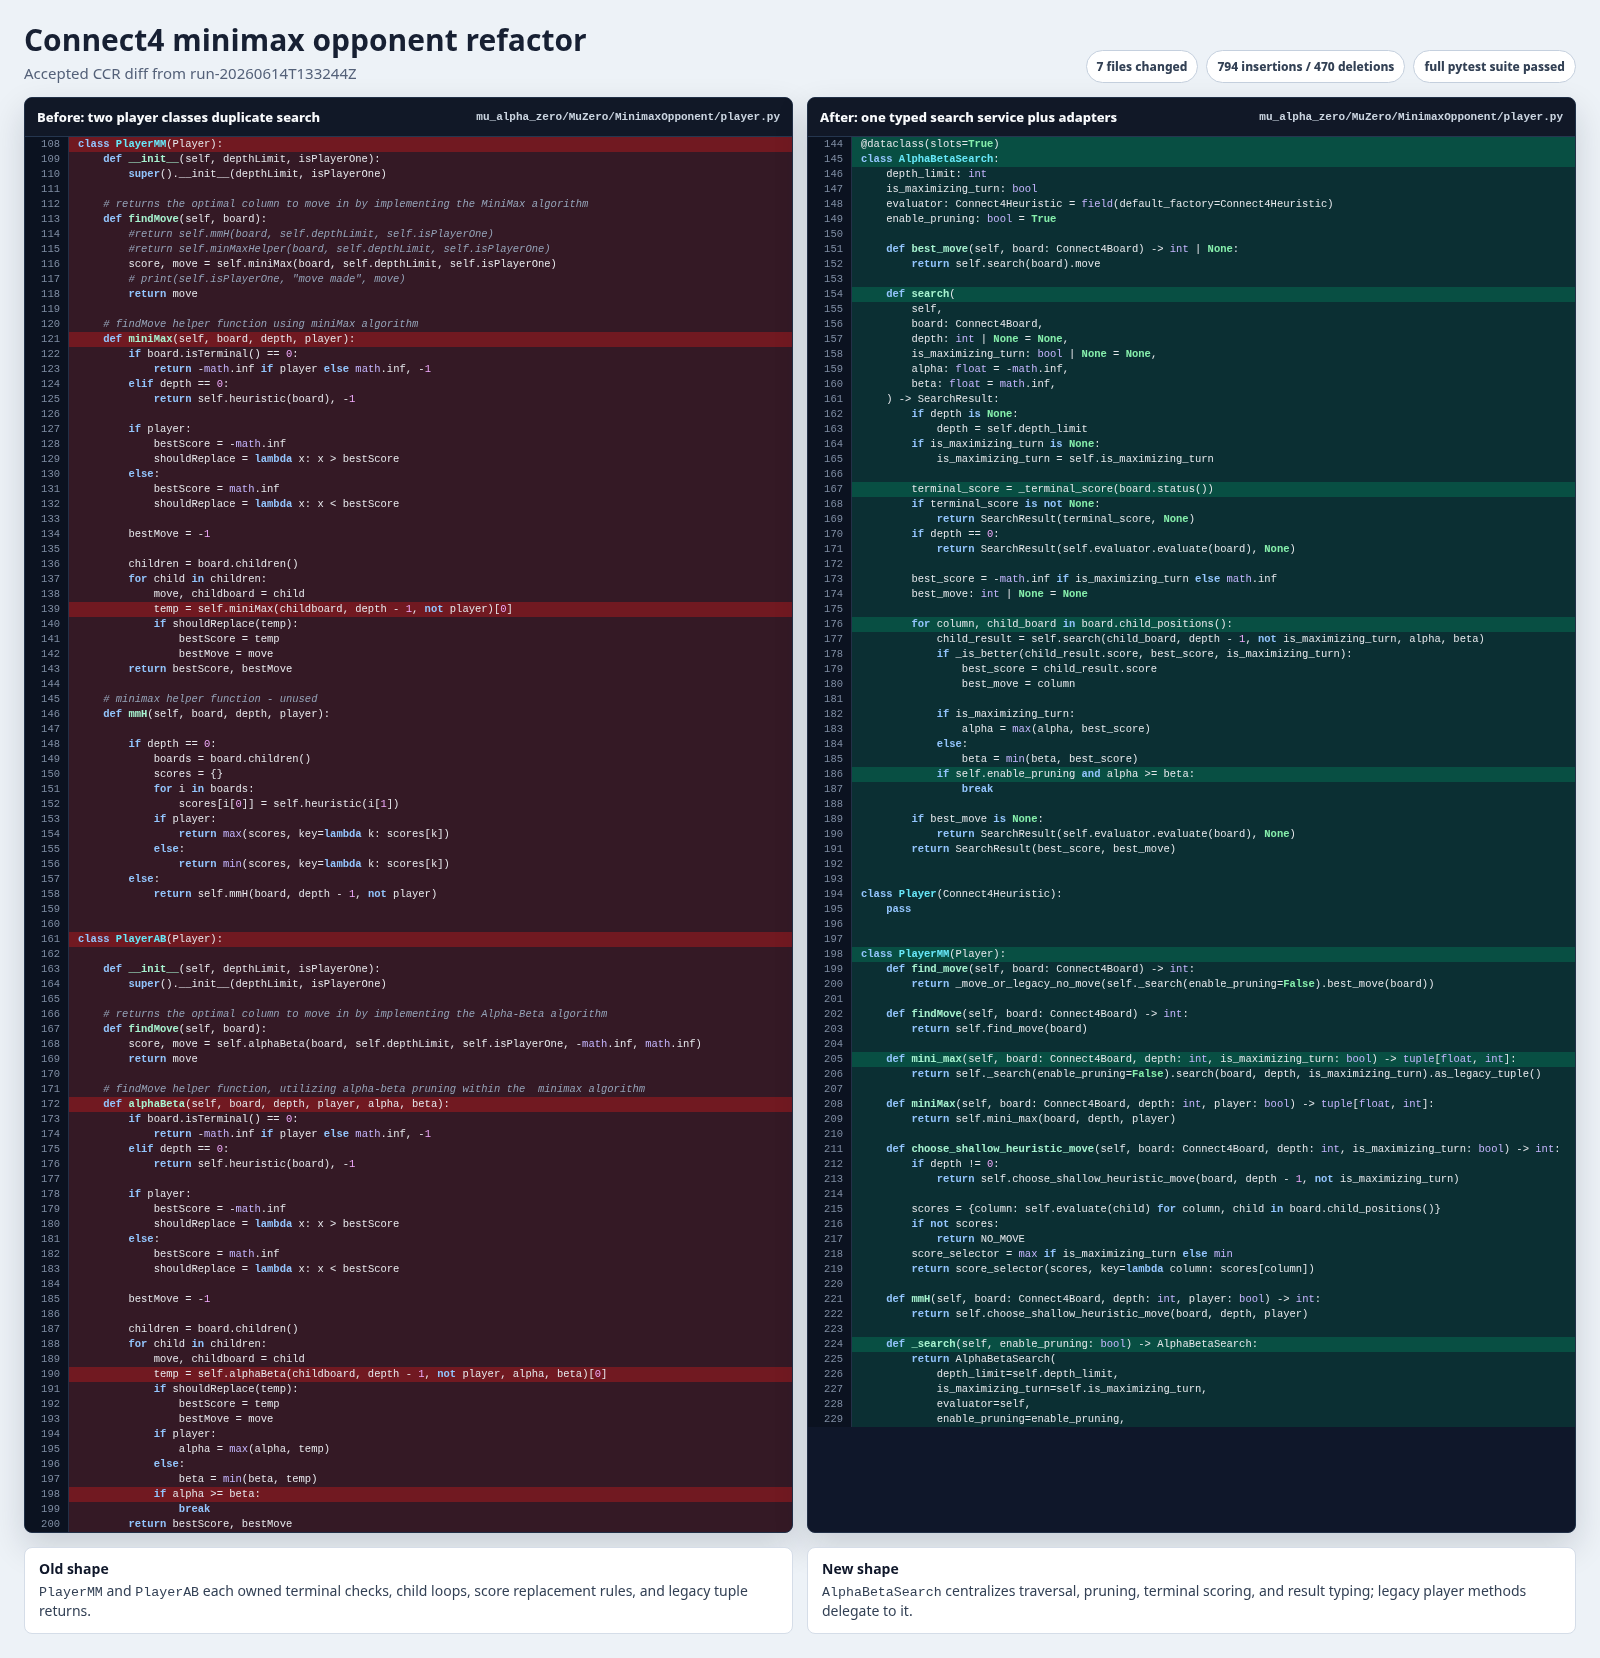
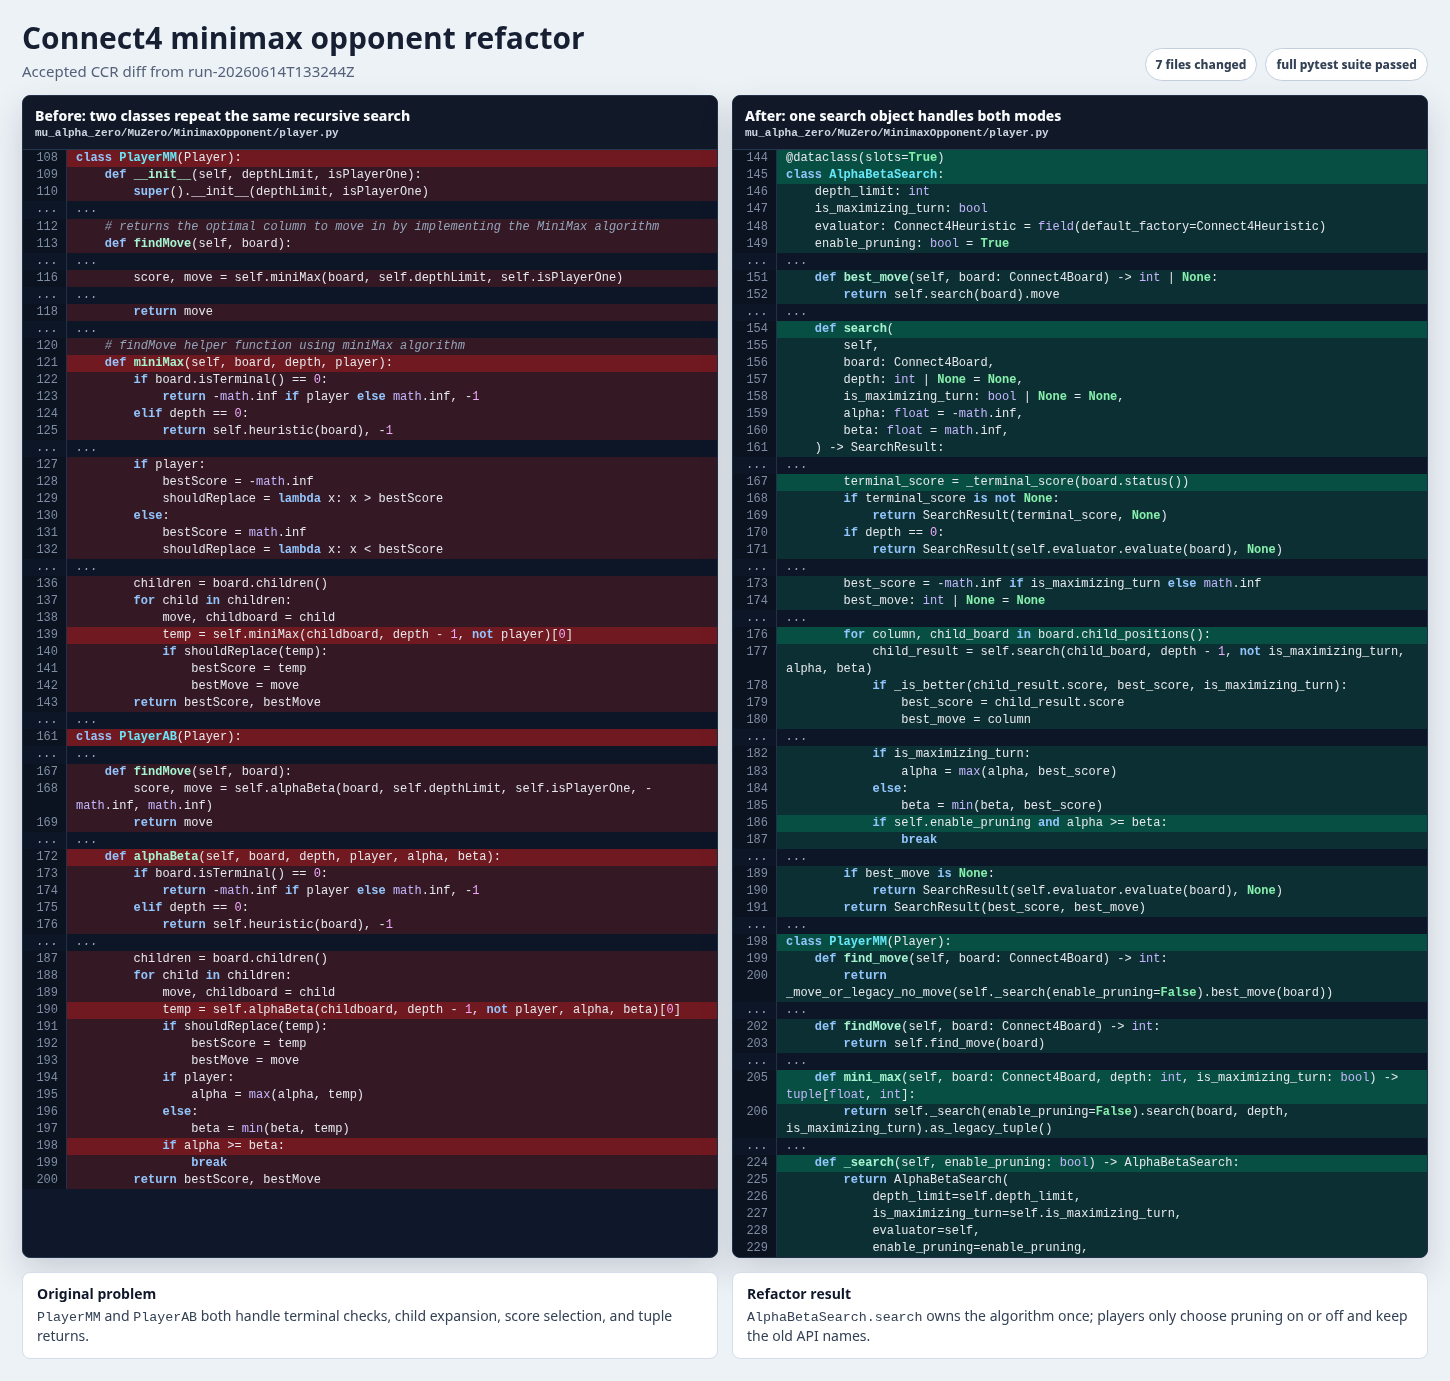
update README

diff --git a/README.md b/README.md
@@ -1,6 +1,6 @@
 # Clean Code Refactor
 
-![CCR diff viewer showing a Connect4 minimax refactor](docs/assets/minimax-refactor-diff.png)
+![Connect4 minimax refactor before and after](docs/assets/minimax-refactor-diff.png)
 
 CCR turns large, risky cleanup work into scoped, verified refactor diffs. This run replaced duplicated Connect4 minimax and alpha-beta recursion with one typed search service while preserving compatibility and passing the generated test suite.
 